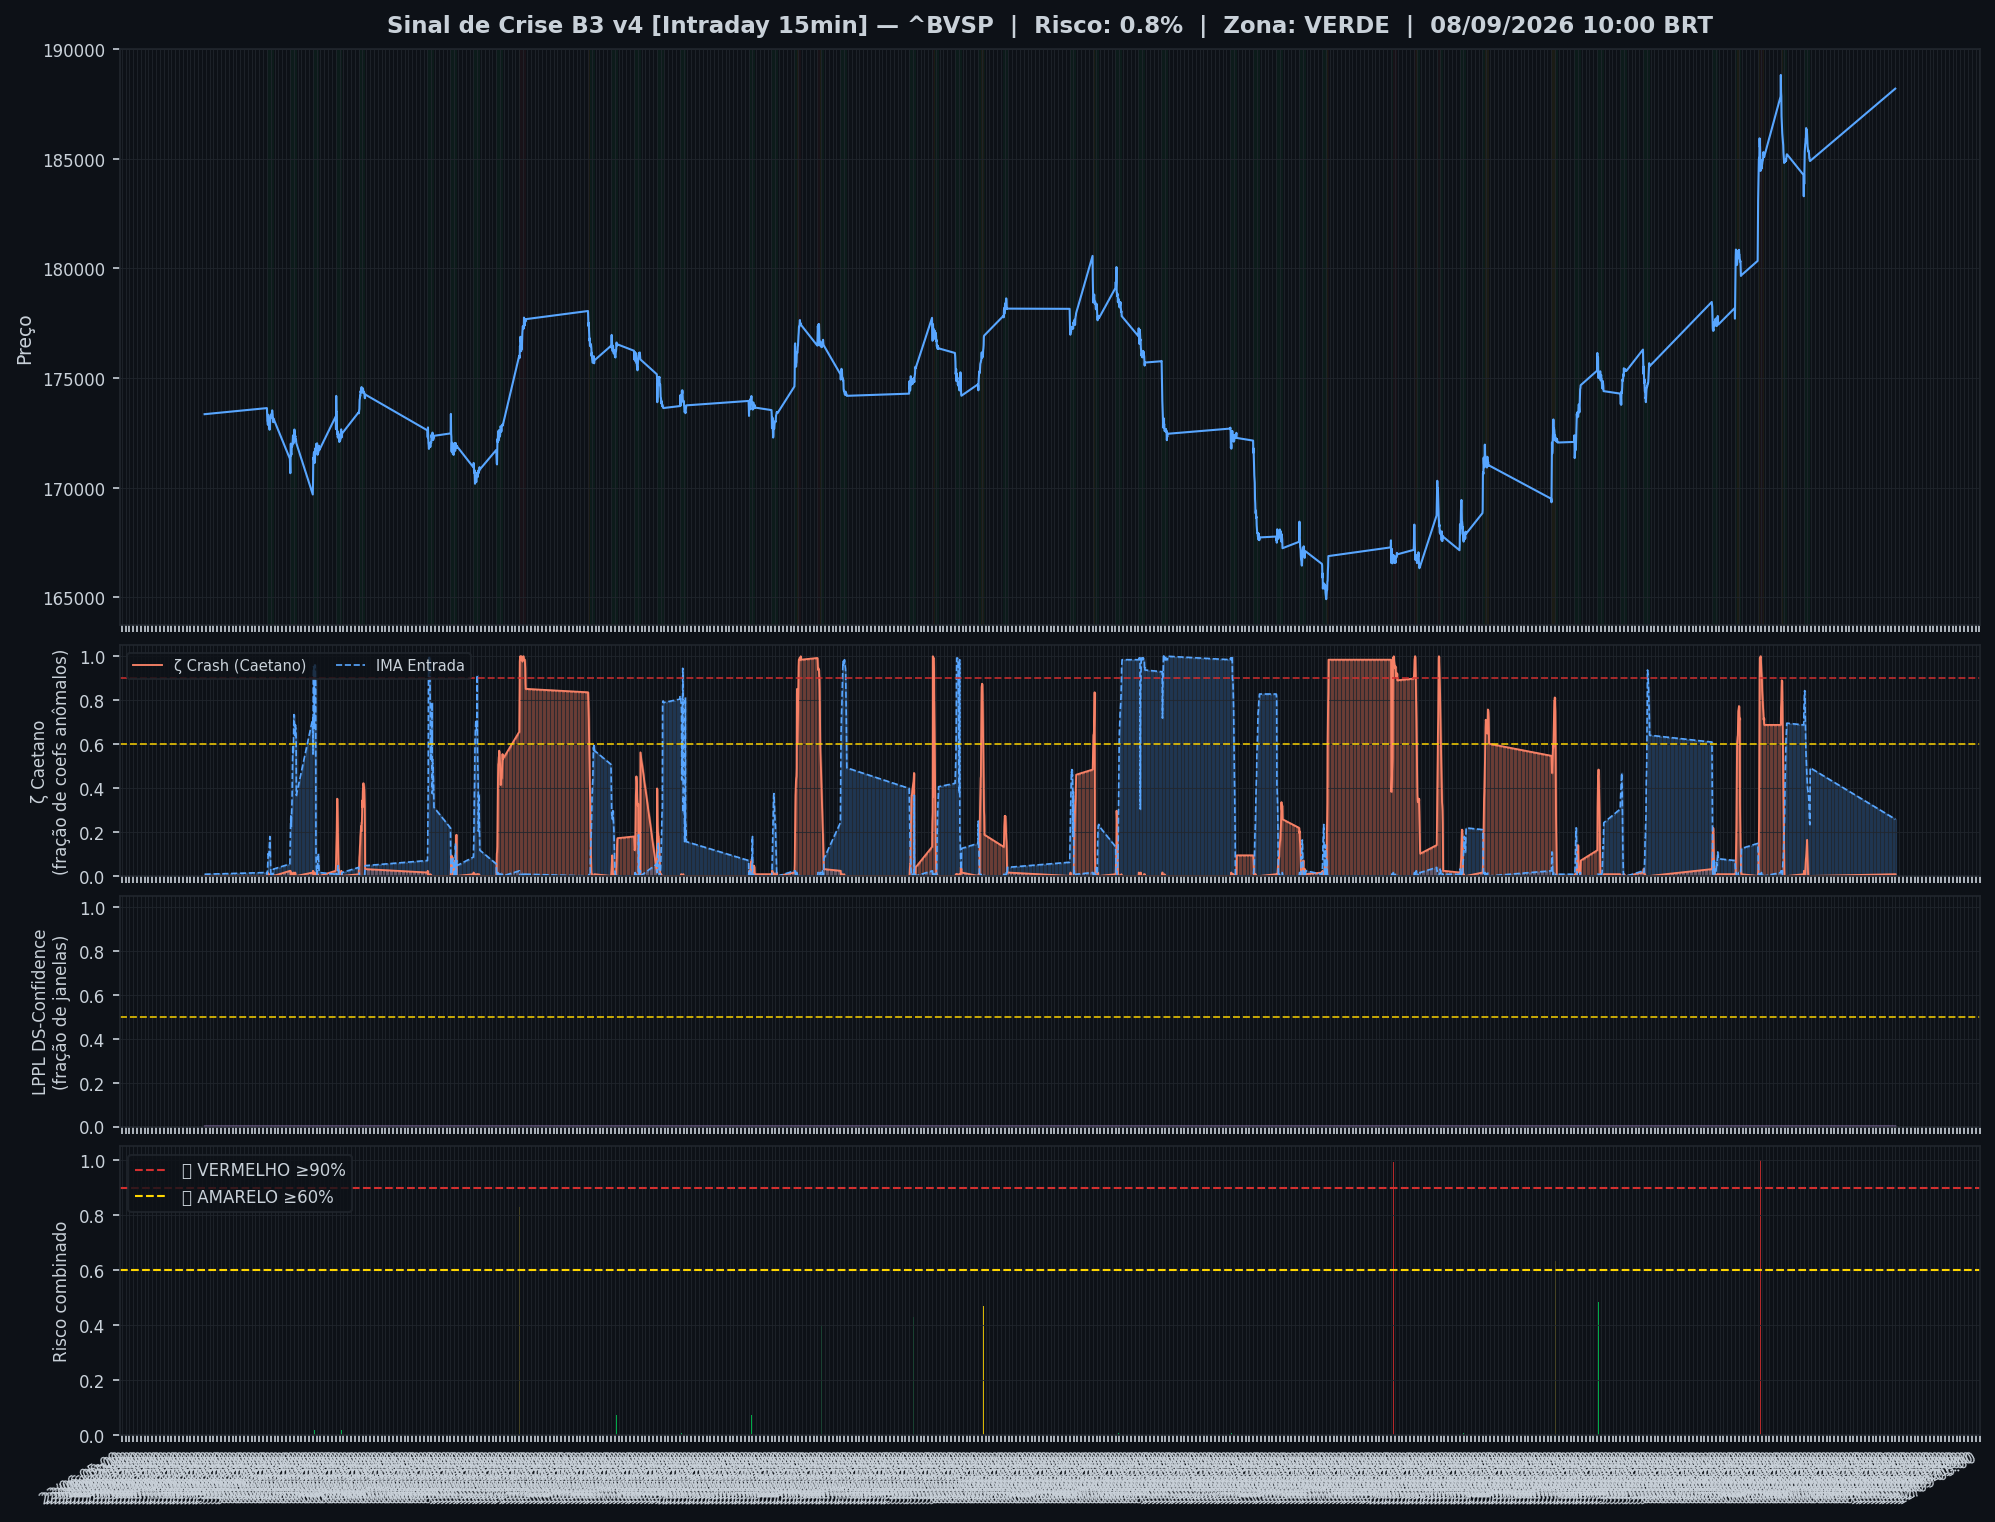
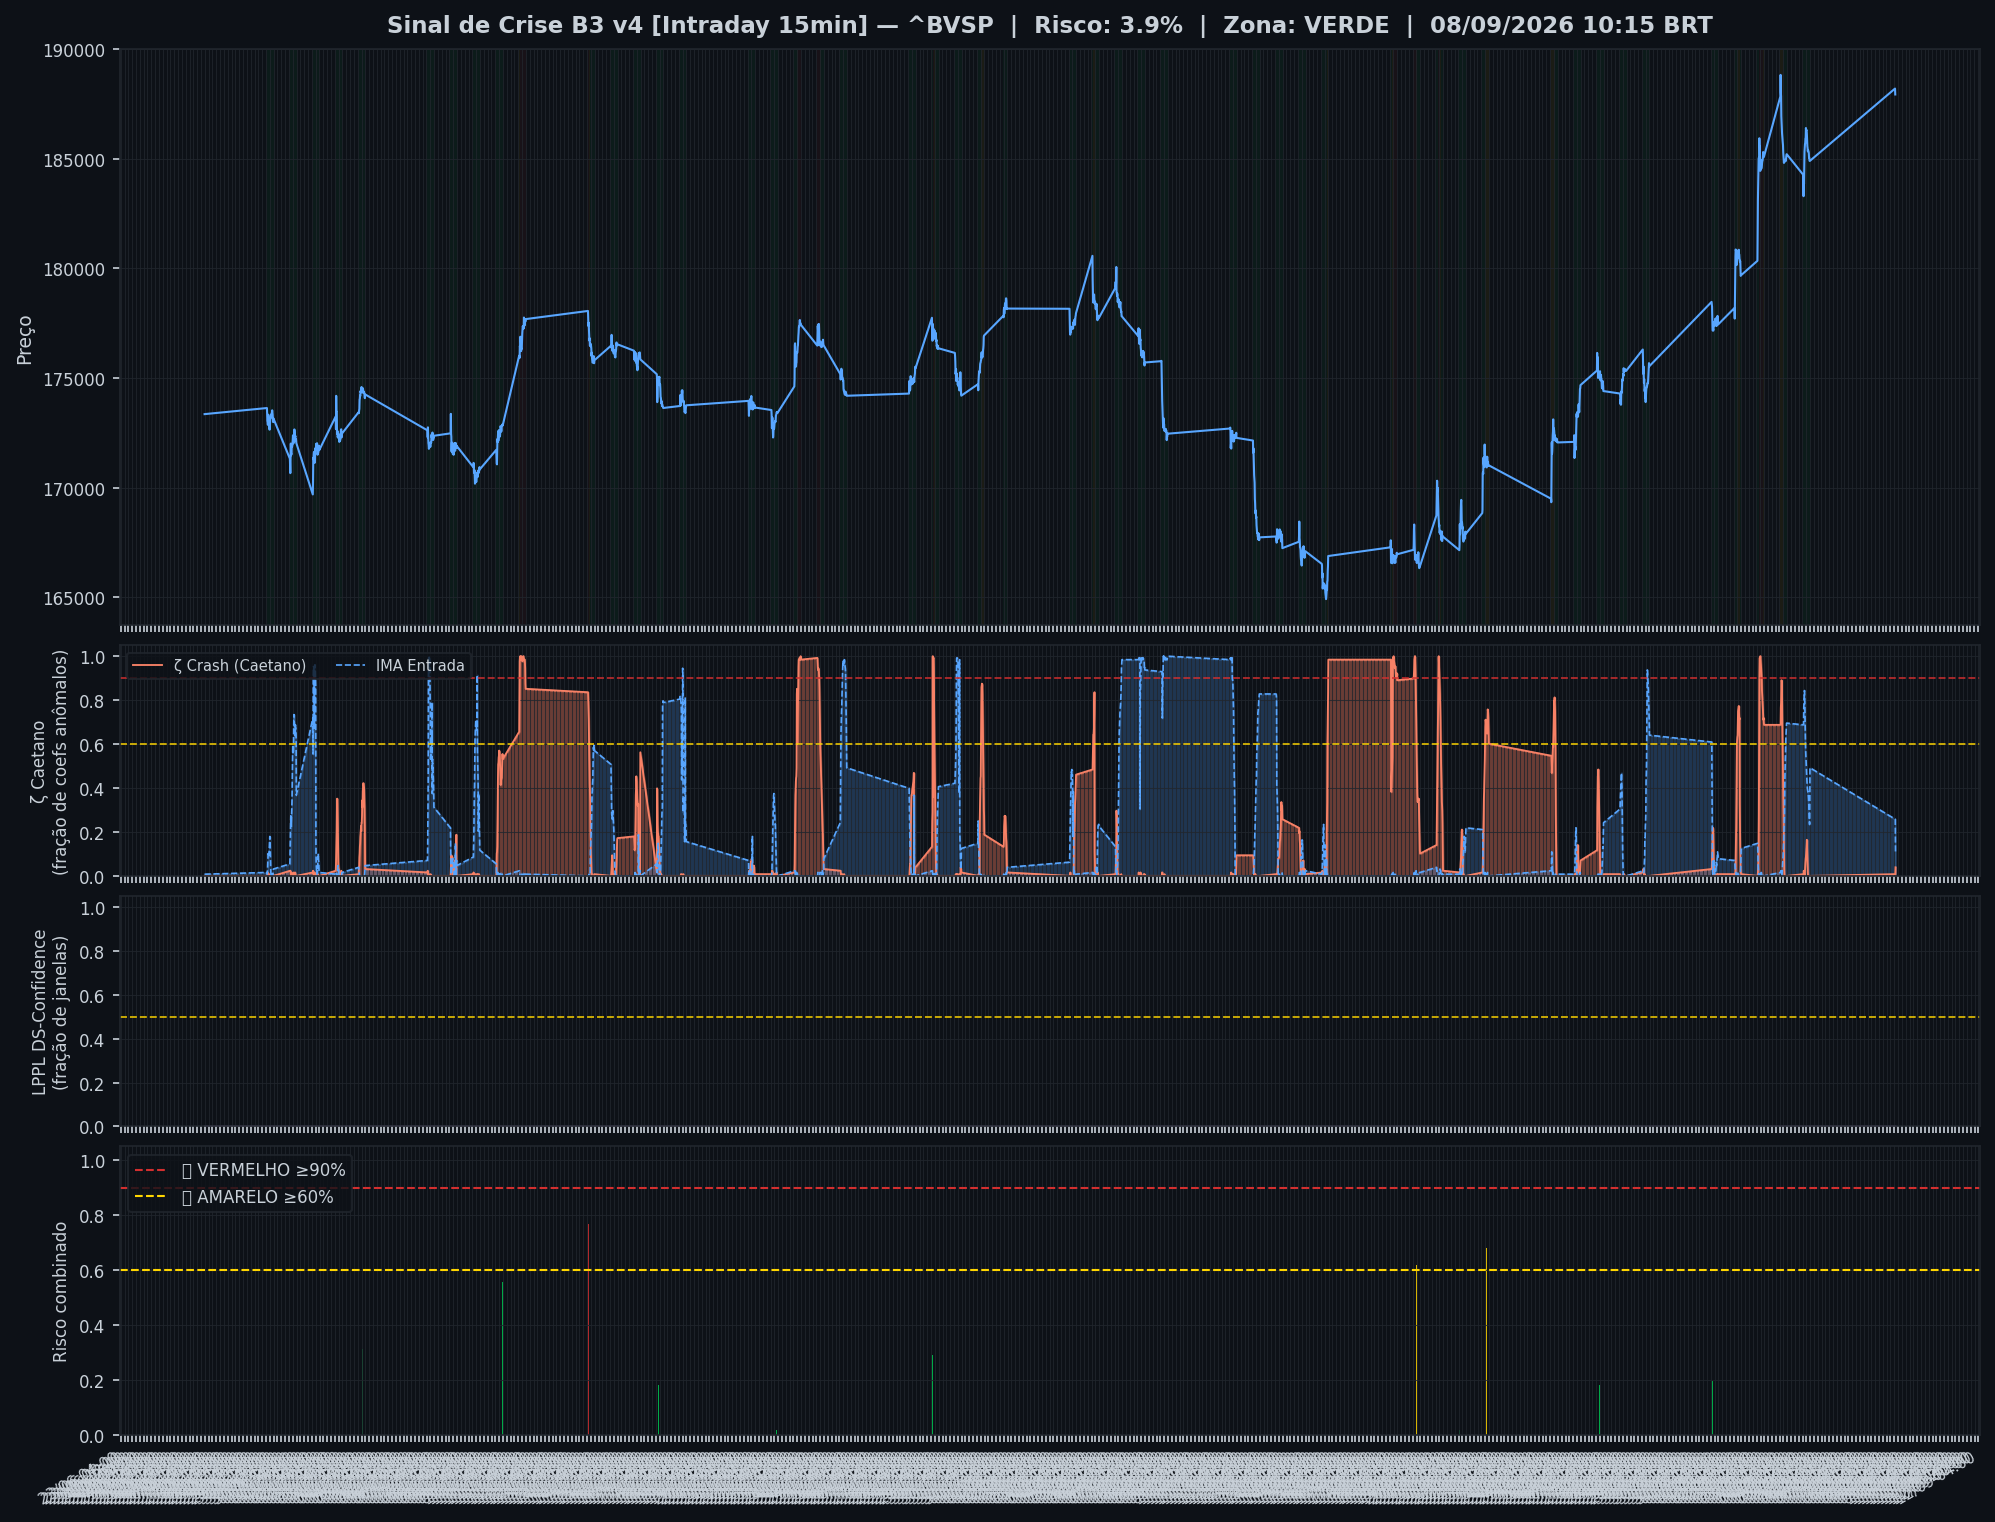
🤖 Auto: Sinal 08/09/2026 11:00

Changed region(s): [[0.1243, 0.4323, 0.9634, 0.5867], [0.0311, 0.9264, 0.9945, 0.9882], [0.808, 0.0, 0.8391, 0.0309]]

diff --git a/content/intraday/2026-09-08.md b/content/intraday/2026-09-08.md
@@ -1,20 +1,20 @@
 ---
-title: "🟢 Intraday 08/09/2026 10:00 BRT — VERDE"
+title: "🟢 Intraday 08/09/2026 10:15 BRT — VERDE"
 date: 2026-09-08
 tags: [intraday]
 ---
 
-> [!success] 🟢 **VERDE** — Risco 1% · ▲ +1 p.p. vs leitura anterior
-> `░░░░░░░░░░░░░░░░░░░░`
+> [!success] 🟢 **VERDE** — Risco 4% · ▲ +3 p.p. vs leitura anterior
+> `█░░░░░░░░░░░░░░░░░░░`
 > Mercado sem sinais relevantes de estresse.
 
 
 | Indicador | Valor |
 |---|---|
-| 🔴 ζ Crash — severidade da queda em curso | **1%** |
-| 🔵 ζ Entrada — estrutura de fundo | 26% |
+| 🔴 ζ Crash — severidade da queda em curso | **4%** |
+| 🔵 ζ Entrada — estrutura de fundo | 10% |
 | 🫧 LPPL DS-Confidence | 0% |
-| 📊 Ibovespa | 188.193 pts |
+| 📊 Ibovespa | 187.924 pts |
 
 ![Gráfico do sinal](../graficos/sinal_intraday.png)
 
@@ -22,6 +22,7 @@ tags: [intraday]
 
 | Data | Zona | Risco | IMA Crash | Entrada | LPPL |
 |---|---|---|---|---|---|
+| 2026-09-08 10:15 | 🟢 VERDE | **4%** | 4% | 10% | 0% |
 | 2026-09-08 10:00 | 🟢 VERDE | **1%** | 1% | 26% | 0% |
 | 2026-09-04 16:45 | 🟢 VERDE | **0%** | 0% | 49% | 0% |
 | 2026-09-04 16:30 | 🟢 VERDE | **0%** | 0% | 23% | 0% |
@@ -51,7 +52,6 @@ tags: [intraday]
 | 2026-09-04 10:30 | 🟢 VERDE | **2%** | 2% | 79% | 0% |
 | 2026-09-04 10:15 | 🟢 VERDE | **2%** | 2% | 77% | 0% |
 | 2026-09-04 10:00 | 🟢 VERDE | **1%** | 1% | 69% | 0% |
-| 2026-09-03 16:45 | 🟢 VERDE | **0%** | 0% | 70% | 0% |
 
 ## Monitor Multi-Ativo
 
@@ -59,37 +59,37 @@ tags: [intraday]
 
 | Zona | Ativo | Setor | IMA Crash | IMA Entrada |
 |---|---|---|---|---|
-| 🟢 | **VALE** | Mineração | 1.6% | 89.8% |
-| 🟢 | **ITAUUNIBANCO** | Financeiro | 1.6% | 89.8% |
-| 🟢 | **PETROBRAS** | Petróleo | 1.6% | 89.8% |
-| 🟢 | **PETROBRAS** | Petróleo | 1.6% | 89.8% |
-| 🟢 | **AXIA ENERGIA** | Energia | 1.6% | 89.8% |
-| 🟢 | **SABESP** | Saneamento | 1.6% | 89.8% |
-| 🟢 | **BRADESCO** | Financeiro | 1.6% | 89.8% |
-| 🟢 | **B3** | Financeiro | 1.6% | 89.8% |
-| 🟢 | **ITAUSA** | Financeiro | 1.6% | 89.8% |
-| 🟢 | **WEG** | Industrial | 1.6% | 89.8% |
-| 🟢 | **BTGP BANCO** | Financeiro | 1.6% | 89.8% |
-| 🟢 | **EMBRAER** | Outros | 1.6% | 89.8% |
-| 🟢 | **BRASIL** | Financeiro | 1.6% | 89.8% |
-| 🟢 | **AMBEV S/A** | Consumo | 1.6% | 89.8% |
-| 🟢 | **ENEVA** | Energia | 1.6% | 89.8% |
-| 🟢 | **EQUATORIAL** | Energia | 1.6% | 89.8% |
-| 🟢 | **COPEL** | Energia | 1.6% | 89.8% |
-| 🟢 | **PRIO** | Petróleo | 1.6% | 89.8% |
-| 🟢 | **VIBRA** | Energia | 1.6% | 89.8% |
-| 🟢 | **ULTRAPAR** | Outros | 1.6% | 89.8% |
-| 🟢 | **REDE D OR** | Saúde | 1.6% | 89.8% |
-| 🟢 | **LOCALIZA** | Aluguel | 1.6% | 89.8% |
-| 🟢 | **GERDAU** | Siderurgia | 1.6% | 89.8% |
-| 🟢 | **SUZANO S.A.** | Papel/Celulose | 1.6% | 89.8% |
-| 🟢 | **RAIADROGASIL** | Outros | 1.6% | 89.8% |
-| 🟢 | **BBSEGURIDADE** | Financeiro | 1.6% | 89.8% |
-| 🟢 | **USD/BRL** | Câmbio | 0.8% | 96.1% |
+| 🟢 | **VALE** | Mineração | 0.8% | 96.1% |
+| 🟢 | **ITAUUNIBANCO** | Financeiro | 0.8% | 96.1% |
+| 🟢 | **PETROBRAS** | Petróleo | 0.8% | 96.1% |
+| 🟢 | **PETROBRAS** | Petróleo | 0.8% | 96.1% |
+| 🟢 | **AXIA ENERGIA** | Energia | 0.8% | 96.1% |
+| 🟢 | **SABESP** | Saneamento | 0.8% | 96.1% |
+| 🟢 | **BRADESCO** | Financeiro | 0.8% | 96.1% |
+| 🟢 | **B3** | Financeiro | 0.8% | 96.1% |
+| 🟢 | **ITAUSA** | Financeiro | 0.8% | 96.1% |
+| 🟢 | **WEG** | Industrial | 0.8% | 96.1% |
+| 🟢 | **BTGP BANCO** | Financeiro | 0.8% | 96.1% |
+| 🟢 | **EMBRAER** | Outros | 0.8% | 96.1% |
+| 🟢 | **BRASIL** | Financeiro | 0.8% | 96.1% |
+| 🟢 | **AMBEV S/A** | Consumo | 0.8% | 96.1% |
+| 🟢 | **ENEVA** | Energia | 0.8% | 96.1% |
+| 🟢 | **EQUATORIAL** | Energia | 0.8% | 96.1% |
+| 🟢 | **COPEL** | Energia | 0.8% | 96.1% |
+| 🟢 | **PRIO** | Petróleo | 0.8% | 96.1% |
+| 🟢 | **VIBRA** | Energia | 0.8% | 96.1% |
+| 🟢 | **ULTRAPAR** | Outros | 0.8% | 96.1% |
+| 🟢 | **REDE D OR** | Saúde | 0.8% | 96.1% |
+| 🟢 | **LOCALIZA** | Aluguel | 0.8% | 96.1% |
+| 🟢 | **GERDAU** | Siderurgia | 0.8% | 96.1% |
+| 🟢 | **SUZANO S.A.** | Papel/Celulose | 0.8% | 96.1% |
+| 🟢 | **RAIADROGASIL** | Outros | 0.8% | 96.1% |
+| 🟢 | **BBSEGURIDADE** | Financeiro | 0.8% | 96.1% |
+| 🟢 | **USD/BRL** | Câmbio | 0.0% | 100.0% |
 
 ![Monitor multi-ativo](../graficos/multi_intraday.png)
 
-*Página atualizada em 08/09/2026 10:45 BRT (leitura da barra de 2026-09-08 10:00 BRT).*
+*Página atualizada em 08/09/2026 11:00 BRT (leitura da barra de 2026-09-08 10:15 BRT).*
 
 > [!info]- Como interpretar (clique para expandir)
 > - **ζ Crash**: fração dos coeficientes wavelet acima do corte (Caetano & Yoneyama 2009). Escala absoluta: ζ=0,90 = 90% dos coeficientes anômalos — historicamente, quedas com ζ≥0,90 foram mais fundas e mais longas. **Mede a severidade do movimento em curso, não prevê o início da queda.**

diff --git a/content/index.md b/content/index.md
@@ -8,19 +8,19 @@ tags: [home]
 
 Monitoramento diário e intraday do Ibovespa — **IMA Wavelet** (Prof. Marco Antonio Leonel Caetano, ITA/INSPER) + **LPPL DS-Confidence** (Prof. Didier Sornette, ETH-Zurich).
 
-*Última atualização: 08/09/2026 10:45 BRT · ^BVSP · Intraday 15min · v4*
+*Última atualização: 08/09/2026 11:00 BRT · ^BVSP · Intraday 15min · v4*
 
-> [!success] 🟢 **VERDE** — Risco 1% · ▲ +1 p.p. vs leitura anterior
-> `░░░░░░░░░░░░░░░░░░░░`
+> [!success] 🟢 **VERDE** — Risco 4% · ▲ +3 p.p. vs leitura anterior
+> `█░░░░░░░░░░░░░░░░░░░`
 > Mercado sem sinais relevantes de estresse.
 
 
 | Indicador | Valor |
 |---|---|
-| 🔴 ζ Crash — severidade da queda em curso | **1%** |
-| 🔵 ζ Entrada — estrutura de fundo | 26% |
+| 🔴 ζ Crash — severidade da queda em curso | **4%** |
+| 🔵 ζ Entrada — estrutura de fundo | 10% |
 | 🫧 LPPL DS-Confidence | 0% |
-| 📊 Ibovespa | 188.193 pts |
+| 📊 Ibovespa | 187.924 pts |
 
 **Multi-ativo:** 0% em tensão (0🔴 0🟡 de 27 ativos)
 
@@ -32,9 +32,8 @@ Monitoramento diário e intraday do Ibovespa — **IMA Wavelet** (Prof. Marco An
 
 | Data | Zona | Risco | IMA | LPPL |
 |---|---|---|---|---|
-| [08 Sep 2026](diario/2026-09-08) | 🟢 VERDE | **1%** | 1% | 0% |
+| [08 Sep 2026](diario/2026-09-08) | 🟢 VERDE | **4%** | 4% | 0% |
 | [04 Sep 2026](diario/2026-09-04) | 🟢 VERDE | **0%** | 0% | 0% |
-| [03 Sep 2026](diario/2026-09-03) | 🟢 VERDE | **0%** | 0% | 0% |
 
 ## Navegação
 

diff --git a/content/historico.md b/content/historico.md
@@ -7,6 +7,7 @@ tags: [historico]
 
 | Data | Modo | Zona | Risco | IMA | LPPL |
 |---|---|---|---|---|---|
+| 2026-09-08 10:15 | intraday | 🟢 VERDE | 4% | 4% | 0% |
 | 2026-09-08 10:00 | intraday | 🟢 VERDE | 1% | 1% | 0% |
 | 2026-09-03 | diario | 🟢 VERDE | 6% | 10% | 0% |
 | 2026-09-04 16:45 | intraday | 🟢 VERDE | 0% | 0% | 0% |
